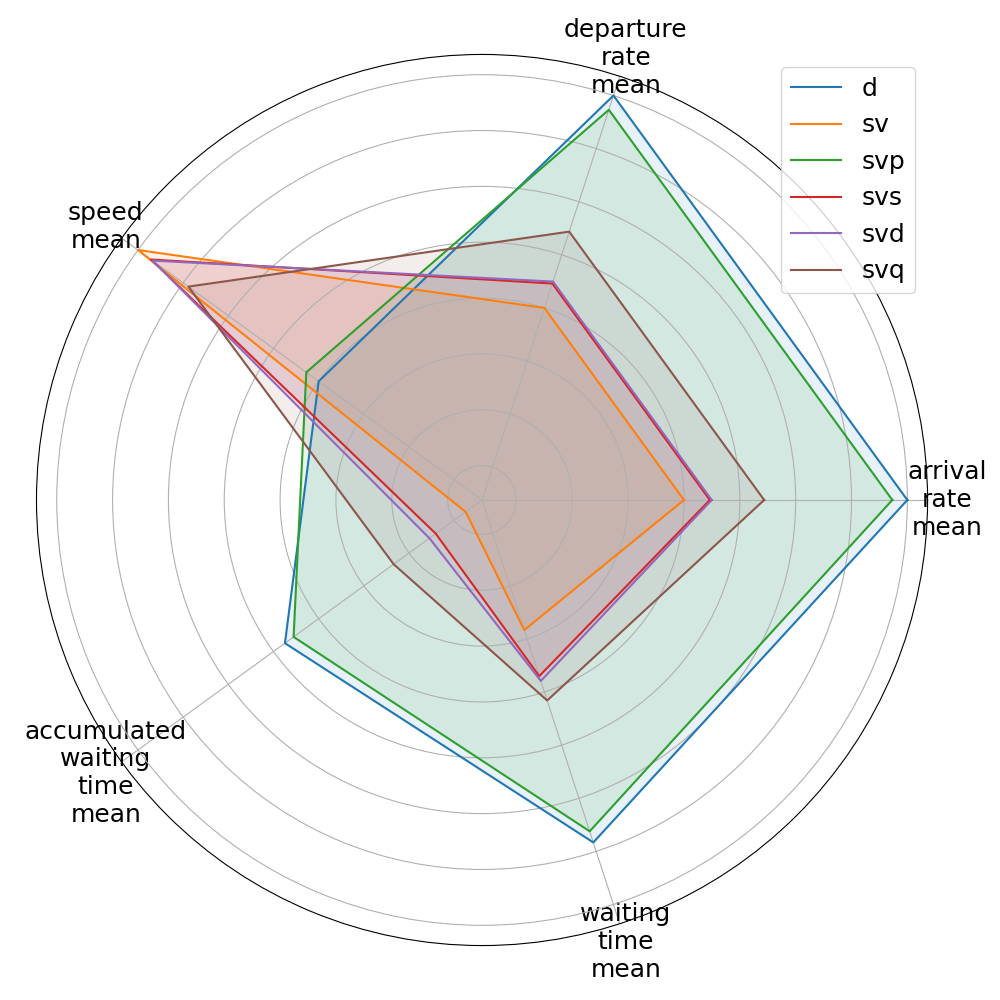
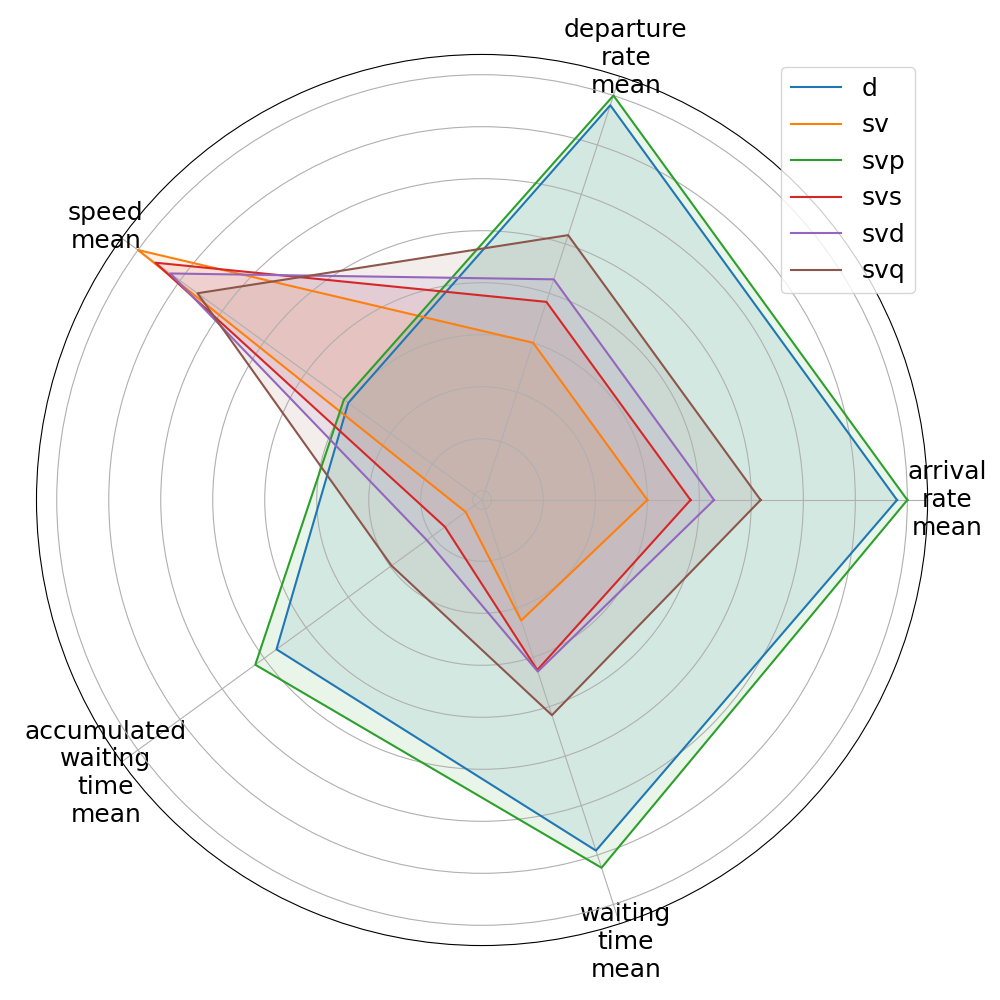
aiuto

diff --git a/chapters/experiments.tex b/chapters/experiments.tex
@@ -248,17 +248,24 @@ Obviously such shared-view construct and in general this last consideration only
 
 In Figure \ref{fig:exp-7-obs} are shown the results of an experiment in which the agent DQL has been tested with the baseline Density observation function and with the shared-view observation functions presented in the previous chapter (recall that with this shared-view all agents are receiving a concatenation of the baseline and the shared-view features).
 It is observed that almost all shared-view function worsen the performance with respect of the base function.
-Notably, using the function that share the current phase of traffic lights to neighbours, the loss in terms of waiting time and throughput is fairly significant but is counterbalanced with an increase in the average speed.
-An hypothesis to explain such phenomenon is that the synchronization that is created by sharing phase information allows to some vehicles to effectively flow though the network.
-Passing more than one intersection per cycle means maintaining a higher speed for more time but also more waiting time for other incoming vehicles.
-This is a trade-off which also solutions like Green-Waves have to master.
+However, using the observation function that share the current phase of traffic lights to neighbours, there is a significant gain in terms of waiting time, throughput and average speed.
 
 \putimage{figures/exp/exp-7-obs.png}{Comparison of Density and the shared-view observation functions for the DQL agent.}{fig:exp-7-obs}{0.75}
 
-In Figure \ref{fig:exp-7-par} are shown the results of an experiment in which the controllable intersection have been distributed to a pool of agents with different types of partitioning.
+% In Figure \ref{fig:exp-7-par} are shown the results of an experiment in which the controllable intersection have been distributed to a pool of agents with different types of partitioning.
+% 
+% \putimage{figures/exp/exp-7-par.png}{Comparison of intersection partitioning techniques for Few-Agent/Single-Agent learning with the DQL agent.}{fig:exp-7-par}{0.75}
 
-\putimage{figures/exp/exp-7-par.png}{Comparison of intersection partitioning techniques for Few-Agent/Single-Agent learning with the DQL agent.}{fig:exp-7-par}{0.75}
+\section{RO 8 - Evaluating the effectiveness of Self-Adaptive strategies}
 
-% \section{RO 8 - Evaluating the effectiveness of Self-Adaptive strategies}
-% %   \subsection{E4: Try Self Adaptive}
-% \putimage{figures/exp/exp-8-sam.png}{}{fig:exp-8-sam}{0.75}
+Traffic control system cannot be thought as immutable objects which, once trained, will stay still forever.
+Traffic habits change and so do demand, usually driven by socio-economic factors but also by perception change due to drivens experiencing more or less traffic jams over time.
+Ideally, the system could need to be retrained with updated dataset every year, if not every month with small learning slots.
+What if a reinforcement learning system is able to detect automatically degradation of performance and to schedule a small training session when needed so that is gets stronger over time?
+That's exacly what has been tried applying the Self-Adaptive algorithm explained in the last chapter.
+As usual, the DQL has been the laboratory rat with the best non-shared-view configuration available, and the results of the experiment are shown in Figure \ref{fig:exp-8-sam}.
+Evidence shows that such mechanism would instead worsen performance by a significant amount in all statistics.
+Since the threshold used in triggering a learning slot is very strict, the doubt remained whether it was actually used but an inspection of simulation log has found to be case.
+Therefore, an explanation of this phenomenon is that learning is not a stable process, fluctuations due to Q table updates probably have induced unwanted behavior and therefore worse performance ratings.
+
+\putimage{figures/exp/exp-8-sam.png}{Comparison of DQL agent performance with Self-Adaptive enabled/disabled.}{fig:exp-8-sam}{0.75}

diff --git a/chapters/fasters-and-tools.tex b/chapters/fasters-and-tools.tex
@@ -20,7 +20,7 @@ Along with the environment, also a set of \textit{Agent}s are created which can 
 
 In most of literature works either there is only one intersection in the scenario or each agent instance is controlling only one of the intersections. As such, also the original SUMO-RL framework \cite{sumorl} developed by Lucas Alegre supported an agent to control only one traffic light intersection.
 The architecture has been revised to allow agents to control more than one intersection by modifying both the agent trait and how the environment works.
-In particular, SUMO-RL has been equipped with an algorithm for partitioning the set of controllable traffic lights intersections on the basis of the number of input lanes or the State Space shape.
+In particular, SUMO-RL has been equipped with an algorithm for partitioning the set of controllable traffic lights intersections on the basis of the number of input lanes or the State-Action Space shape.
 By default, it assigns an distinct instance of agent to each one of the intersections in the network. If needed, it will group intersections based on the aforementioned similarities and assign a single agent instance for each group.
 Furthermore, while the architecture allows for different agent types to act in the simulation at the same time, the system is actually instructed to use only one agent type at a time, because the goals of this research don't require to analyze the behaviour of different agent types on the same network.
 
